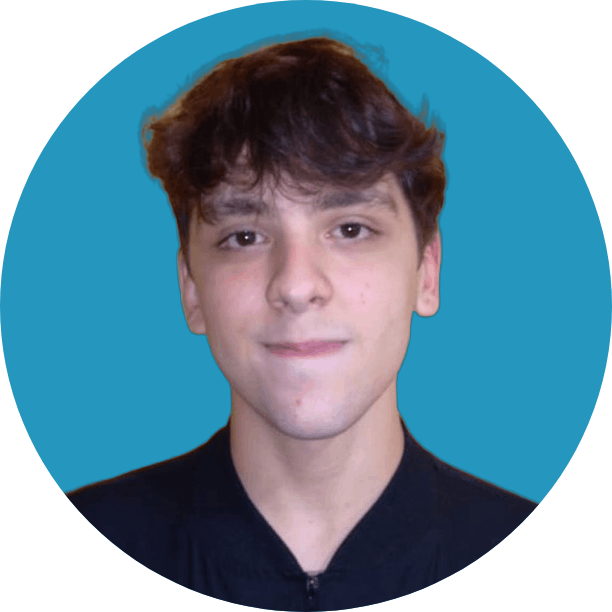
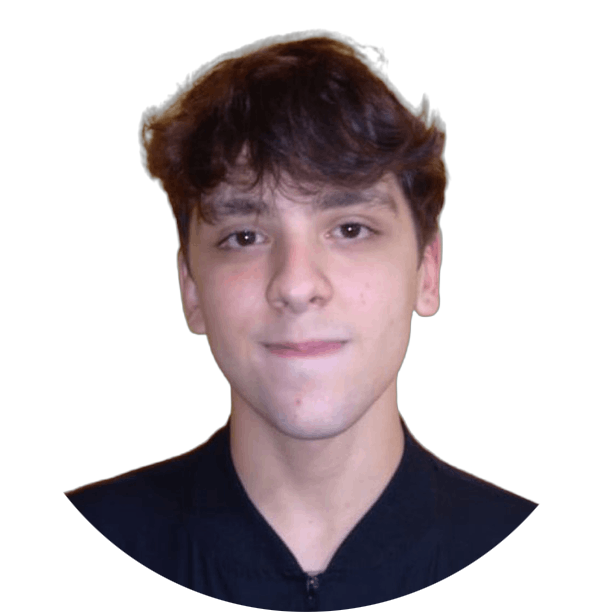
fourth commit

diff --git a/index.html b/index.html
@@ -22,7 +22,7 @@
 </head>
 
 <body>
-  <nav class="navbar navbar-expand-xl custom-navbar">
+  <nav class="navbar navbar-expand-xl custom-navbar fixed-top">
     <div class="container-fluid">
       <h1 class="navbar-brand">SITIO WEB PERSONAL</h1>
       <button class="navbar-toggler" type="button" data-bs-toggle="collapse" data-bs-target="#navbarNav"
@@ -50,11 +50,13 @@
 
   <section id="start" class="d-flex container-fluid vh-100 align-items-center justify-content-center">
     <div class="text-center">
+      <img src="./assets/profile-pic.png" alt="profile-picture" height="256" width="256"></img>
       <h1 class="titles">¡Hola a todos, soy Lautaro Agustín Bustos!</h1>
-      <h2>DESARROLLADOR WEB</h2>
+      <h2 id="color_transition">DESARROLLADOR WEB</h2>
       <div class="d-flex flex-column align-items-center">
         <button type="button" class="btn">
-          <a href="">Descargar currículum</a>
+          <a href="https://drive.google.com/file/d/1beqzfGp7FikWg8eAJWl5VvJy8mvDqJp4/view?usp=sharing">Descargar
+            currículum</a>
         </button>
       </div>
     </div>
@@ -92,50 +94,63 @@
     </div>
   </section>
 
-  <section id="proyects" class="container-fluid vh-100 d-flex flex-column align-items-center justify-content-center">
-    <h2 class="titles">Proyectos</h2>
-    <div id="carouselExampleCaptions" class="carousel slide">
-      <div class="carousel-indicators">
-        <button type="button" data-bs-target="#carouselExampleCaptions" data-bs-slide-to="0" class="active"
-          aria-current="true" aria-label="Slide 1"></button>
-        <button type="button" data-bs-target="#carouselExampleCaptions" data-bs-slide-to="1"
-          aria-label="Slide 2"></button>
-        <button type="button" data-bs-target="#carouselExampleCaptions" data-bs-slide-to="2"
-          aria-label="Slide 3"></button>
+  <section id="proyects" class="container-fluid vh-100">
+    <h2 class="titles text-center">Proyectos</h2>
+    <div class="row">
+      <div class="col-md-6 d-flex align-items-center justify-content-center">
+        <div id="carouselExampleCaptions" class="carousel slide">
+          <div class="carousel-indicators">
+            <button type="button" data-bs-target="#carouselExampleCaptions" data-bs-slide-to="0" class="active"
+              aria-current="true" aria-label="Slide 1"></button>
+            <button type="button" data-bs-target="#carouselExampleCaptions" data-bs-slide-to="1"
+              aria-label="Slide 2"></button>
+            <button type="button" data-bs-target="#carouselExampleCaptions" data-bs-slide-to="2"
+              aria-label="Slide 3"></button>
+          </div>
+          <div class="carousel-inner">
+            <div class="carousel-item active">
+              <img src="./assets/proyect-1.jpg" class="d-block mx-auto w-75" alt="primer_proyecto" />
+              <div class="carousel-caption d-none d-md-block">
+                <h5>Primer proyecto</h5>
+                <p>Aca van a ir los futuros proyectos.</p>
+              </div>
+            </div>
+            <div class="carousel-item">
+              <img src="./assets/proyect-2.jpg" class="d-block mx-auto w-75" alt="segundo_proyecto" />
+              <div class="carousel-caption d-none d-md-block">
+                <h5>Segundo proyecto</h5>
+                <p>Aca van a ir los futuros proyectos.</p>
+              </div>
+            </div>
+            <div class="carousel-item">
+              <img src="./assets/proyect-3.jpg" class="d-block mx-auto w-75" alt="tercer_proyecto" />
+              <div class="carousel-caption d-none d-md-block">
+                <h5>Tercer Proyecto</h5>
+                <p>Aca van a ir los futuros proyectos.</p>
+              </div>
+            </div>
+          </div>
+          <button class="carousel-control-prev" type="button" data-bs-target="#carouselExampleCaptions"
+            data-bs-slide="prev">
+            <span class="carousel-control-prev-icon" aria-hidden="true"></span>
+            <span class="visually-hidden">Anterior</span>
+          </button>
+          <button class="carousel-control-next" type="button" data-bs-target="#carouselExampleCaptions"
+            data-bs-slide="next">
+            <span class="carousel-control-next-icon" aria-hidden="true"></span>
+            <span class="visually-hidden">Siguiente</span>
+          </button>
+        </div>
       </div>
-      <div class="carousel-inner">
-        <div class="carousel-item active">
-          <img src="./assets/proyect-1.jpg" class="d-block mx-auto w-75" alt="primer_proyecto" />
-          <div class="carousel-caption d-none d-md-block">
-            <h5>Primer proyecto</h5>
-            <p>Aca van a ir los futuros proyectos.</p>
-          </div>
-        </div>
-        <div class="carousel-item">
-          <img src="./assets/proyect-2.jpg" class="d-block mx-auto w-75" alt="segundo_proyecto" />
-          <div class="carousel-caption d-none d-md-block">
-            <h5>Segundo proyecto</h5>
-            <p>Aca van a ir los futuros proyectos.</p>
-          </div>
-        </div>
-        <div class="carousel-item">
-          <img src="./assets/proyect-3.jpg" class="d-block mx-auto w-75" alt="tercer_proyecto" />
-          <div class="carousel-caption d-none d-md-block">
-            <h5>Tercer Proyecto</h5>
-            <p>Aca van a ir los futuros proyectos.</p>
-          </div>
+
+      <div class="col-md-6 d-flex align-items-center justify-content-center">
+        <div class="text-content">
+          <h3>Detalles del Proyecto</h3>
+          <p>Lorem ipsum dolor sit amet consectetur adipisicing elit. Eius nisi commodi nostrum ducimus neque animi
+            voluptatum quis. Hic debitis quae mollitia libero distinctio dolores, saepe, ex neque deleniti tempora
+            natus.</p>
         </div>
       </div>
-      <button class="carousel-control-prev" type="button" data-bs-target="#carouselExampleCaptions"
-        data-bs-slide="prev">
-        <span class="carousel-control-prev-icon" aria-hidden="true"></span>
-        <span class="visually-hidden">Anterior</span>
-      </button>
-      <button class="carousel-control-next" type="button" data-bs-target="#carouselExampleCaptions"
-        data-bs-slide="next">
-        <span class="carousel-control-next-icon" aria-hidden="true"></span>
-        <span class="visually-hidden">Siguiente</span>
-      </button>
     </div>
   </section>
 
@@ -161,6 +176,7 @@
       </li>
     </ul>
   </section>
+  <script src="./script.js"></script>
 </body>
 
 </html>

diff --git a/style.css b/style.css
@@ -12,11 +12,15 @@
   font-family: SourceSansSemiBold;
   src: url(./fonts/SourceSansPro-SemiBold.ttf);
 }
+
 .custom-navbar {
   font-size: 15px;
   letter-spacing: 1px;
   background-color: #131313;
   font-family: SourceSansBold, sans-serif;
+  height: 75px;
+  line-height: 75px;
+  position: fixed;
 }
 
 .custom-navbar h1 {
@@ -34,7 +38,7 @@
 }
 
 .custom-navbar .nav-link:hover {
-  color: #ddd; 
+  color: #ddd;
 }
 
 
@@ -77,7 +81,7 @@
 }
 
 #start div a:hover {
- text-decoration: underline;
+  text-decoration: underline;
 }
 
 #about-me {
@@ -191,7 +195,6 @@
   color: #ddd;
 }
 
-@media only screen and (max-width: 56.25em)
-html {
-    font-size: 56%;
+#color_transition {
+  transition: color 2s;
 }

diff --git a/script.js b/script.js
@@ -1,0 +1,19 @@
+let color_transition = document.getElementById('color_transition');
+
+let colores = [
+    'rgb(255, 87, 34)',
+    'rgb(156, 39, 176)',
+    'rgb(33, 150, 243)',
+    'rgb(76, 175, 80)',
+    'rgb(255, 193, 7)',
+];
+let indiceActual = 0;
+
+setInterval(function () {
+    color_transition.style.color = colores[indiceActual];
+    indiceActual++;
+
+    if (indiceActual == colores.length) {
+        indiceActual = 0;
+    }
+}, 1000);
